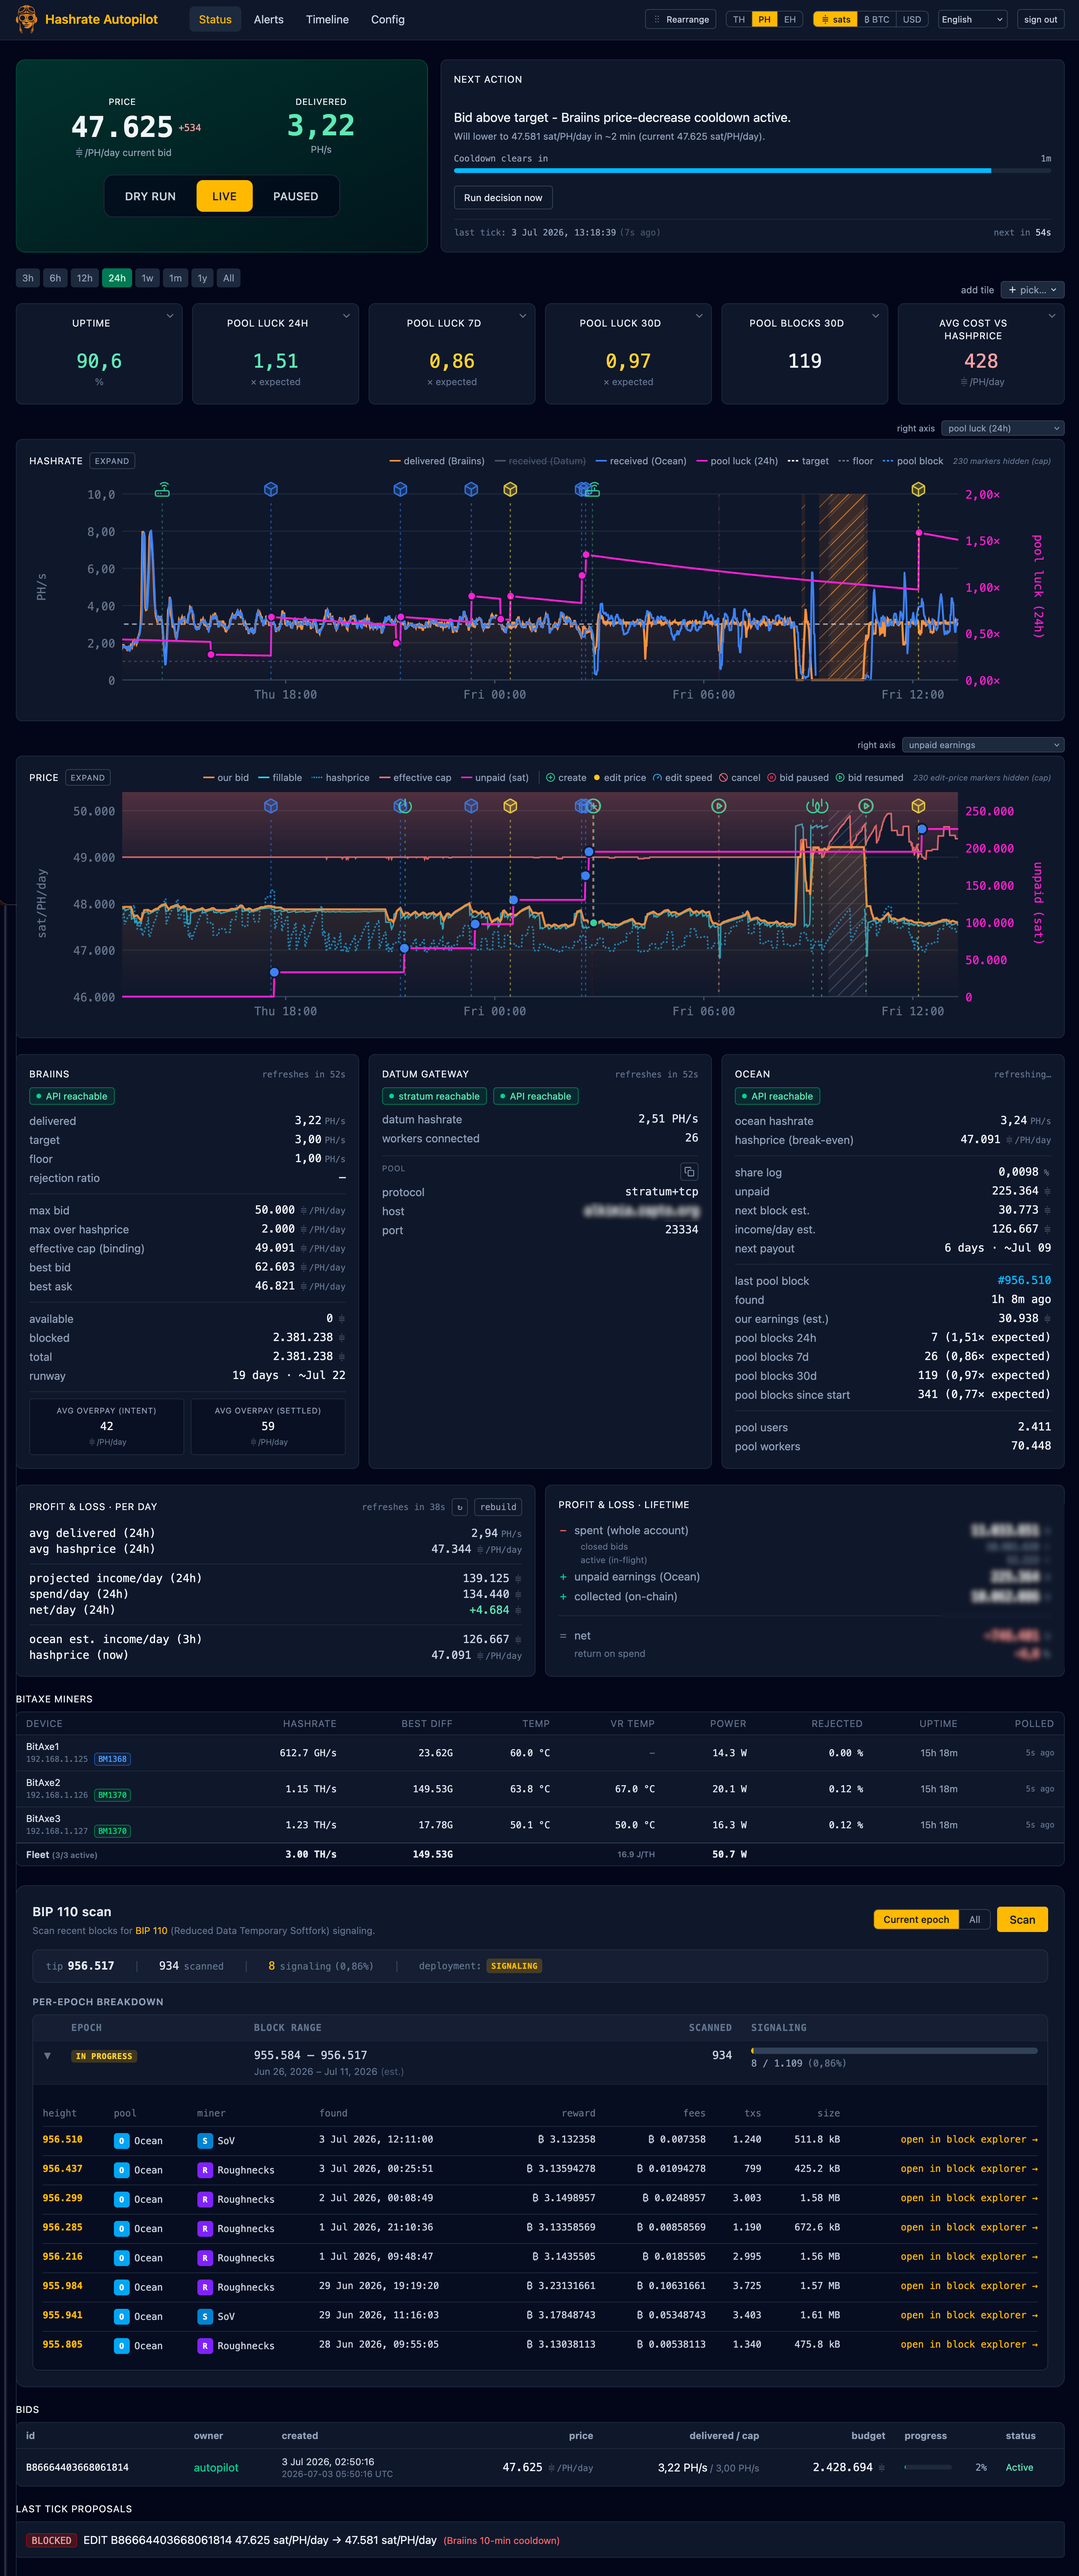
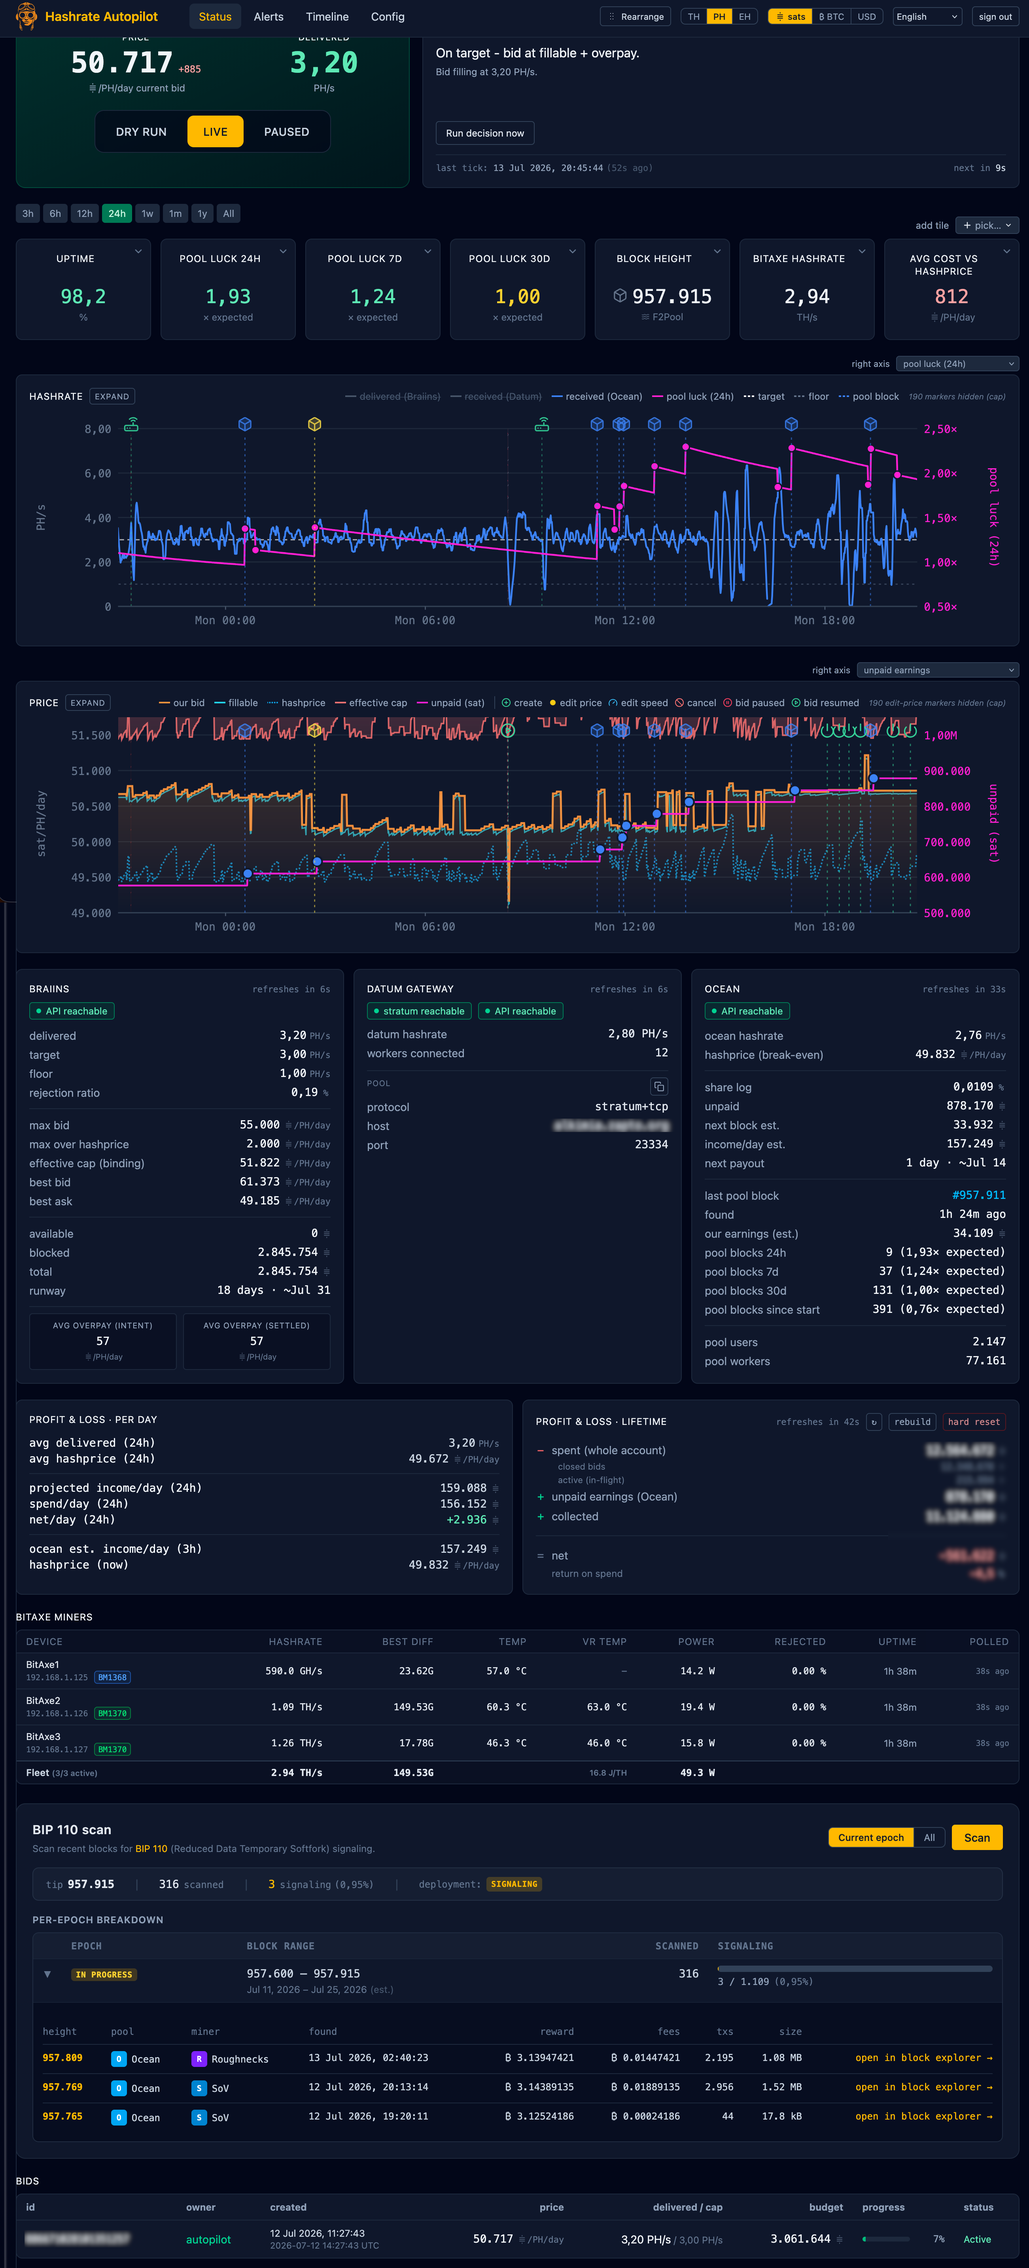
release: v1.17.1
Feature + polish release since v1.17.0.

New: current-block-height stats tile that names the pool/miner and
crowns your own blocks (#335); personal notes on Timeline events (#336);
full-text Timeline search across id, reason, notes, identifiers (#342);
Profit & Loss hard-reset control (#343).

Improved: alert-condition drawer breaks an outage into threshold /
fired / recovered / duration / total with nearest-unit rounding (#341,
#340); P&L collected self-heals from a partial payout backfill (#343).

Fixes: DDNS test push sends the daemon's detected IP (#339).

Infra: @fastify/static v10, @fastify/cors, dev-tooling bumps (#344,
#345).

Bumps umbrel-app.yml version, docker-compose image pin, BUILD_NUMBER,
CHANGELOG in lockstep; refreshes the Umbrel gallery + README screenshots.

diff --git a/CHANGELOG.md b/CHANGELOG.md
@@ -2,6 +2,10 @@
 
 ## 2026-07-13
 
+### `[Release]` v1.17.1
+
+Feature + polish release since v1.17.0. New: a current-block-height stats tile that names the pool/miner and crowns your own blocks (#335); personal notes on Timeline events (#336); a full-text Timeline search across id, reason, notes, and identifiers (#342); a Profit & Loss "hard reset" control (#343). Improved: the alert-condition drawer breaks an outage into threshold / fired / recovered / duration / total with nearest-unit rounding (#341, #340); the P&L "collected" figure self-heals from a partial payout backfill (#343). Fixes: DDNS test push sends the daemon's detected IP (#339). Infra: @fastify/static v10, @fastify/cors, and dev-tooling bumps (#344, #345). Umbrel gallery screenshots refreshed.
+
 ### `[Infra]` Dependency bumps: @fastify/static v10, @fastify/cors, dev tooling (#344, #345)
 
 Merged the grouped Dependabot updates. `@fastify/static` went from 9 to 10 (major): its `setHeaders` callback now receives a Fastify reply instead of the raw Node response, so the dashboard's HTML no-cache headers were updated to `reply.header(...)`; static asset serving and the immutable-asset/no-cache-HTML behavior are unchanged. Also `@fastify/cors` 11.2 to 11.3, and dev-only bumps (eslint, prettier, tsx, typescript-eslint, vite). No user-visible behavior change.
